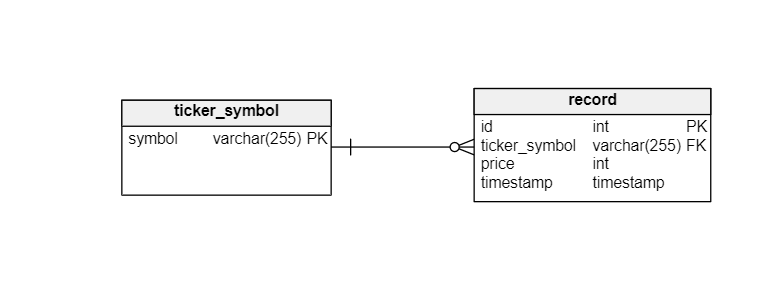
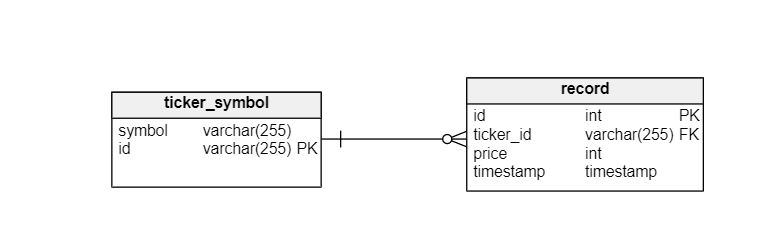
Added fields to entities and field resolvers.
New fields and fields resolvers was needed to resolve connection between record and
tickerSymbol while query information after adding new instrument ticker.

Changed region(s): [[0.1244, 0.28, 0.9326, 0.728], [0.5907, 0.756, 0.9326, 0.784], [0.1244, 0.728, 0.4352, 0.756]]

diff --git a/src/record/record.service.ts b/src/record/record.service.ts
@@ -4,7 +4,7 @@ import { Repository } from 'typeorm';
 import { Record } from './entities/record.entity';
 import { CreateInstrumentTicker } from './dto/create-record-symbol.input';
 import { TickerSymbolService } from '../ticker-symbol/ticker-symbol.service';
-import { CreateRecordInput } from './dto/create-record.input';
+import { TickerSymbol } from '../ticker-symbol/entities/ticker-symbol.entity';
 
 @Injectable()
 export class RecordService {
@@ -21,10 +21,12 @@ export class RecordService {
         createRecordSymbolInput.tickerSymbol,
       );
     }
-    const newRecordInput = new CreateRecordInput();
-    newRecordInput.price = createRecordSymbolInput.price;
-    newRecordInput.timestamp = createRecordSymbolInput.timestamp;
-    newRecordInput.ticker = currentTickerSymbol;
+    const newRecordInput = {
+      price: createRecordSymbolInput.price,
+      timestamp: createRecordSymbolInput.timestamp,
+      ticker: currentTickerSymbol,
+      tickerId: currentTickerSymbol.id,
+    };
     const newRecord = this.recordRepository.create(newRecordInput);
     return this.recordRepository.save(newRecord);
   }
@@ -34,5 +36,9 @@ export class RecordService {
 
   async findOne(id: string): Promise<Record> {
     return this.recordRepository.findOneBy({ id: id });
+  }
+
+  async getTicker(tickerId: string): Promise<TickerSymbol> {
+    return this.tickerSymbolService.findOneById(tickerId);
   }
 }

diff --git a/src/record/record.resolver.ts b/src/record/record.resolver.ts
@@ -1,7 +1,15 @@
-import { Args, Mutation, Query, Resolver } from '@nestjs/graphql';
+import {
+  Args,
+  Mutation,
+  Parent,
+  Query,
+  ResolveField,
+  Resolver,
+} from '@nestjs/graphql';
 import { Record } from './entities/record.entity';
 import { RecordService } from './record.service';
 import { CreateInstrumentTicker } from './dto/create-record-symbol.input';
+import { TickerSymbol } from '../ticker-symbol/entities/ticker-symbol.entity';
 
 @Resolver(() => Record)
 export class RecordResolver {
@@ -22,5 +30,10 @@ export class RecordResolver {
   @Query(() => Record)
   async getRecordById(id: string): Promise<Record> {
     return this.recordService.findOne(id);
+  }
+
+  @ResolveField((returns) => TickerSymbol)
+  async ticker(@Parent() record: Record): Promise<TickerSymbol> {
+    return this.recordService.getTicker(record.tickerId);
   }
 }

diff --git a/src/ticker-symbol/ticker-symbol.service.ts b/src/ticker-symbol/ticker-symbol.service.ts
@@ -33,7 +33,9 @@ export class TickerSymbolService {
   async findOneBySymbol(symbol: string): Promise<TickerSymbol> {
     return await this.tickerSymbolRepository.findOneBy({ symbol: symbol });
   }
-
+  async findOneById(id: string): Promise<TickerSymbol> {
+    return await this.tickerSymbolRepository.findOneBy({ id: id });
+  }
   async remove(symbol: string) {
     const tickerToRemove = await this.tickerSymbolRepository.findOneBy({
       symbol: symbol,

diff --git a/src/ticker-symbol/entities/ticker-symbol.entity.ts b/src/ticker-symbol/entities/ticker-symbol.entity.ts
@@ -1,11 +1,15 @@
 import { ObjectType, Field } from '@nestjs/graphql';
-import { Entity, OneToMany, PrimaryColumn } from 'typeorm';
+import { Column, Entity, OneToMany, PrimaryGeneratedColumn } from 'typeorm';
 import { Record } from '../../record/entities/record.entity';
 
 @Entity()
 @ObjectType()
 export class TickerSymbol {
-  @PrimaryColumn()
+  @PrimaryGeneratedColumn('uuid')
+  @Field()
+  id: string;
+
+  @Column()
   @Field()
   symbol: string;
 

diff --git a/src/ticker-symbol/ticker-symbol.resolver.ts b/src/ticker-symbol/ticker-symbol.resolver.ts
@@ -29,7 +29,10 @@ export class TickerSymbolResolver {
   ): Promise<TickerSymbol> {
     return this.tickerSymbolService.findOneBySymbol(symbol);
   }
-
+  @Query(() => TickerSymbol)
+  async getTickerSymbolById(@Args('id') id: string): Promise<TickerSymbol> {
+    return this.tickerSymbolService.findOneById(id);
+  }
   @Mutation(() => TickerSymbol)
   async removeTickerSymbol(
     @Args('symbol')

diff --git a/src/record/entities/record.entity.ts b/src/record/entities/record.entity.ts
@@ -16,6 +16,10 @@ export class Record {
   @Field(() => Float)
   price: number;
 
+  @Column()
+  @Field()
+  tickerId: string;
+
   @ManyToOne(() => TickerSymbol, (tickerSymbol) => tickerSymbol.records)
   @Field((type) => TickerSymbol)
   ticker: TickerSymbol;

diff --git a/src/record/dto/create-record.input.ts b/src/record/dto/create-record.input.ts
@@ -10,5 +10,8 @@ export class CreateRecordInput {
   price: number;
 
   @Field()
+  tickerId: string;
+
+  @Field()
   ticker: TickerSymbol;
 }
